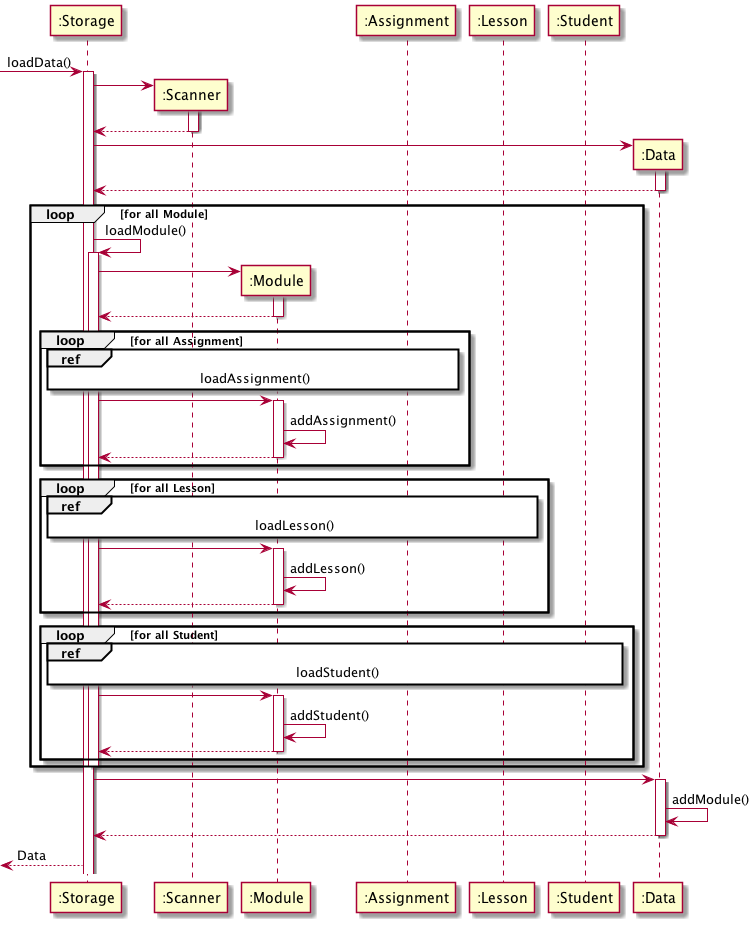
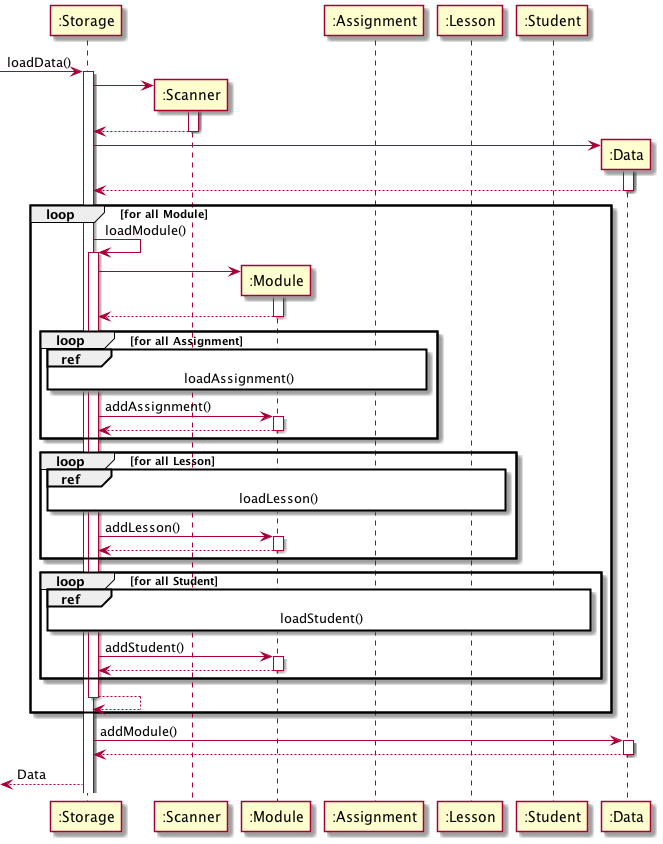
update developer guide

Changed region(s): [[0.0, 0.0, 0.9955, 1.0], [0.4525, 0.0, 0.905, 0.0616]]

diff --git a/docs/DeveloperGuide.md b/docs/DeveloperGuide.md
@@ -57,16 +57,18 @@ required to print different kinds of messages on te console.
    that prints the messages.
    <br>
 
-## Storage Component (Bryan)
+## Storage Component
+
+<br>For the Storage functionality of the application, I have added a new `Storable` interface that is implemented by the three main entities of the app: Assignment, Student and Lesson.</br> The `Storable` interface mandates the user to write a `toStorage()` method in order to be stored in the database. The `toStorage()` method converts all information of an object into a `String` format to be appended onto the database.
+
+The implementation of the `Storable` interface helps to decouple the Storage class from all classes that require storing of their instances into the database. This is because by implementing `Storable`, all `Storage` class needs to do to store an object information into the database would be to interact with the `Storable` interface via the `toStorage()` method. 
+
 <br>Given below is the Class Diagram for the Storage class. The storage class interacts with the Database file, ensuring that user's data will be saved at the end of each session and loaded up upon the user's next visit. </br>
 
 ![Storage](uml/StorageClassDiagram.png)
 
 The `Storage` class is used to interact with the database.txt file. The `loadData()` function of the Storage object will be called at the start of the program and `saveData()` at the end of the program.
 
-The `Storage` class will collect the data of all classes that implements the Storable interface so that these data can be saved to the database.
-
-The `toStorage()` method of the Storable interface will return a string representing the object instance's data. 
 
 `loadData()`: 
 
@@ -74,12 +76,21 @@ The `loadData()` method is illustrated in the sequence diagram below.
 
 ![loadData](uml/LoadDataSequenceDiagram.png)
 
-As can be seen, multiple loops are required to load the information of all object instances onto the Database so that the user's data is saved.
+As can be seen, multiple loops are required to load all the information of each object instance from the Database so that the user's data can be retrieved fully.
 
 `saveData()`:
 
-When the saveData() method is called, the toStorage() method of each object instance implementing the Storable interface will be called. The return string of each toStorage() method will then be appended onto the database.
+When the `saveData()` method is called, the `toStorage()` method of each object instance implementing the `Storable` interface will be called. The return string of each `toStorage()` method will then be appended onto the database.
  
+`loadAnswer()`:
+
+For Autograding purpose, the `Storage` class is required to retrieve the answers and students' scripts from the respective .txt files that they were stored in. The `loadAnswer()` method in the `Storage` class fulfils this. The Sequence Diagram below exhibits the behaviour of the `loadAnswer()` method.
+
+![loadAnswer](uml/LoadAnswerSequenceDiagram.png)
+
+`loadScript()`:
+
+Similarly to `loadAnswer()` as shown in the above Sequence Diagram, the `loadScript()` method follows the same logic in retrieving each student's script from their input file, scanning them as Data and allowing us to perform Autograding.
 
 ## Data Component
 The figure below shows the classes in ModMan that tracks module information data.
